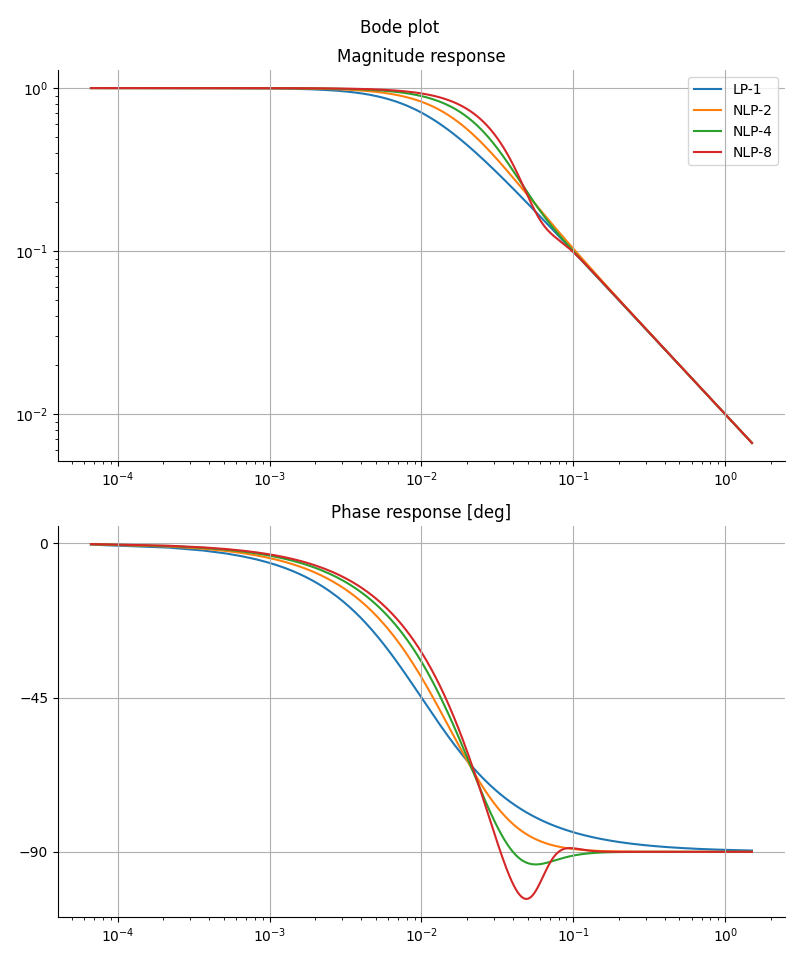
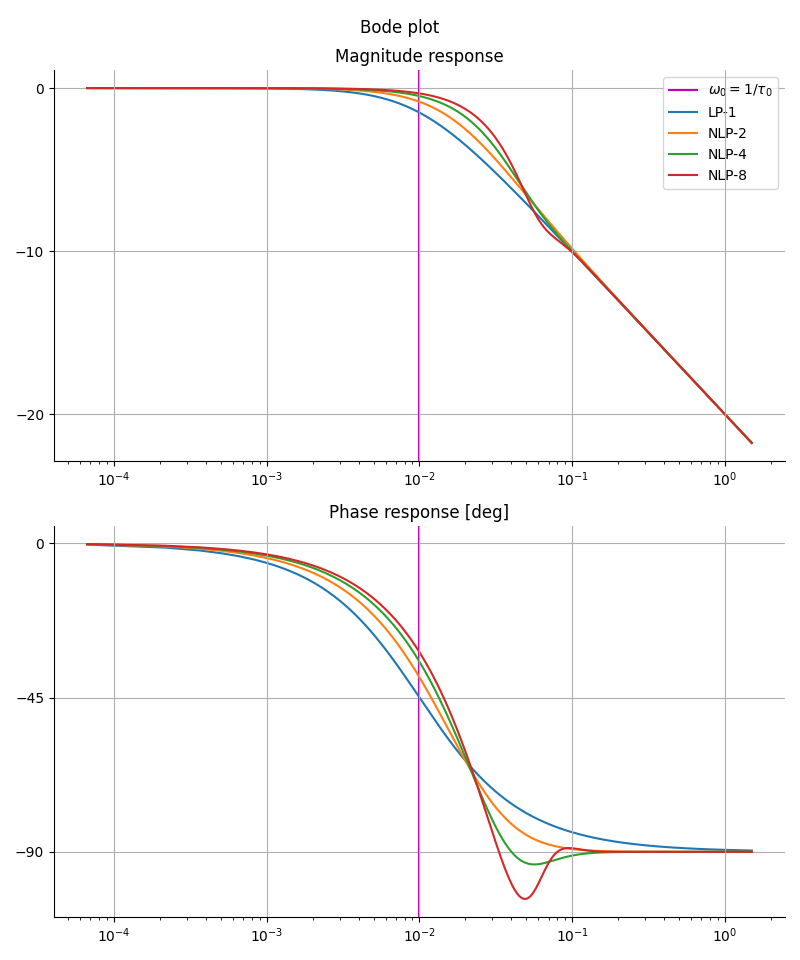
NLP WIP

diff --git a/src/python/nice_lowpass.py b/src/python/nice_lowpass.py
@@ -97,23 +97,21 @@ fig, [ax1, ax2] = plt.subplots(figsize=[figsize[0], 1.6*figsize[1]], nrows=2)
 fig.suptitle('Bode plot')
 ax1.set_title('Magnitude response')
 ax2.set_title('Phase response [deg]')
-# min_mag_db = 0
+ax1.axvline(1e-2, c='m', label=r'$\omega_0 = 1/\tau_0$')
+ax2.axvline(1e-2, c='m', label=r'$\omega_0 = 1/\tau_0$')
 for order in [1, 2, 4, 8]:
     nlp = nice_lowpass(order=order, tau=100)
     label = f'NLP-{order}' if order >= 2 else 'LP-1'
     mag = nlp.magnitude(w)
-    # mag_db = 10*np.log10(mag)
-    # mag_db = 3*np.log2(mag)
-    # min_mag_db = min(min_mag_db, np.min(mag_db))
-    # ax1.semilogx(w, mag_db, label=label)
-    ax1.loglog(w, mag, label=label)
+    mag_db = 10*np.log10(mag)
+    ax1.semilogx(w, mag_db, label=label)
     ax2.semilogx(w, nlp.phase(w)*180/np.pi)
 ax1.spines[['right', 'top']].set_visible(False)
 ax2.spines[['right', 'top']].set_visible(False)
 ax1.xaxis.set_zorder(99)
 ax2.xaxis.set_zorder(99)
-# ax1.set_yticks(np.arange(0, min_mag_db, -3))
 ax1.legend()
+ax1.yaxis.set_major_locator(MultipleLocator(10))
 ax2.yaxis.set_major_locator(MultipleLocator(45))
 ax1.grid(True)
 ax2.grid(True)
